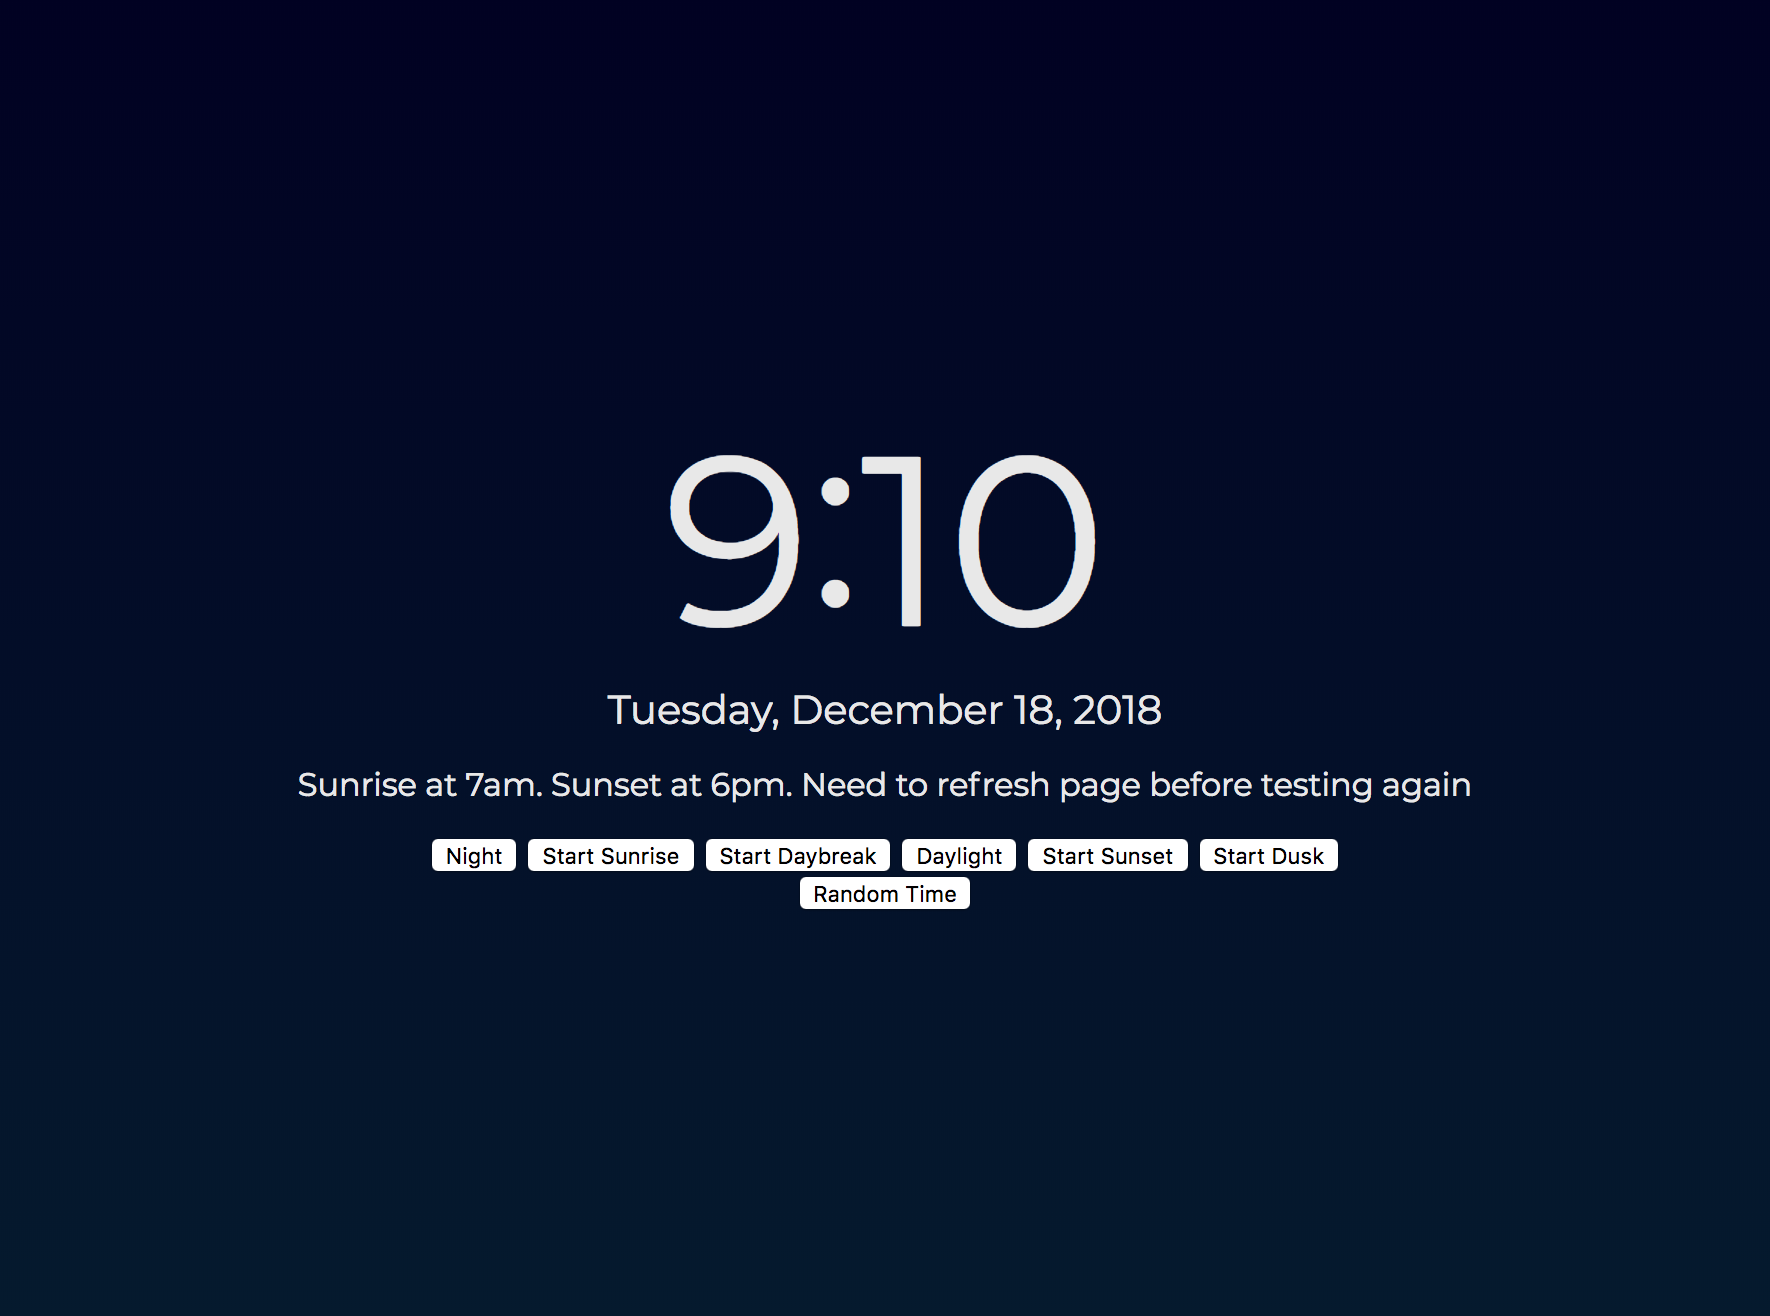
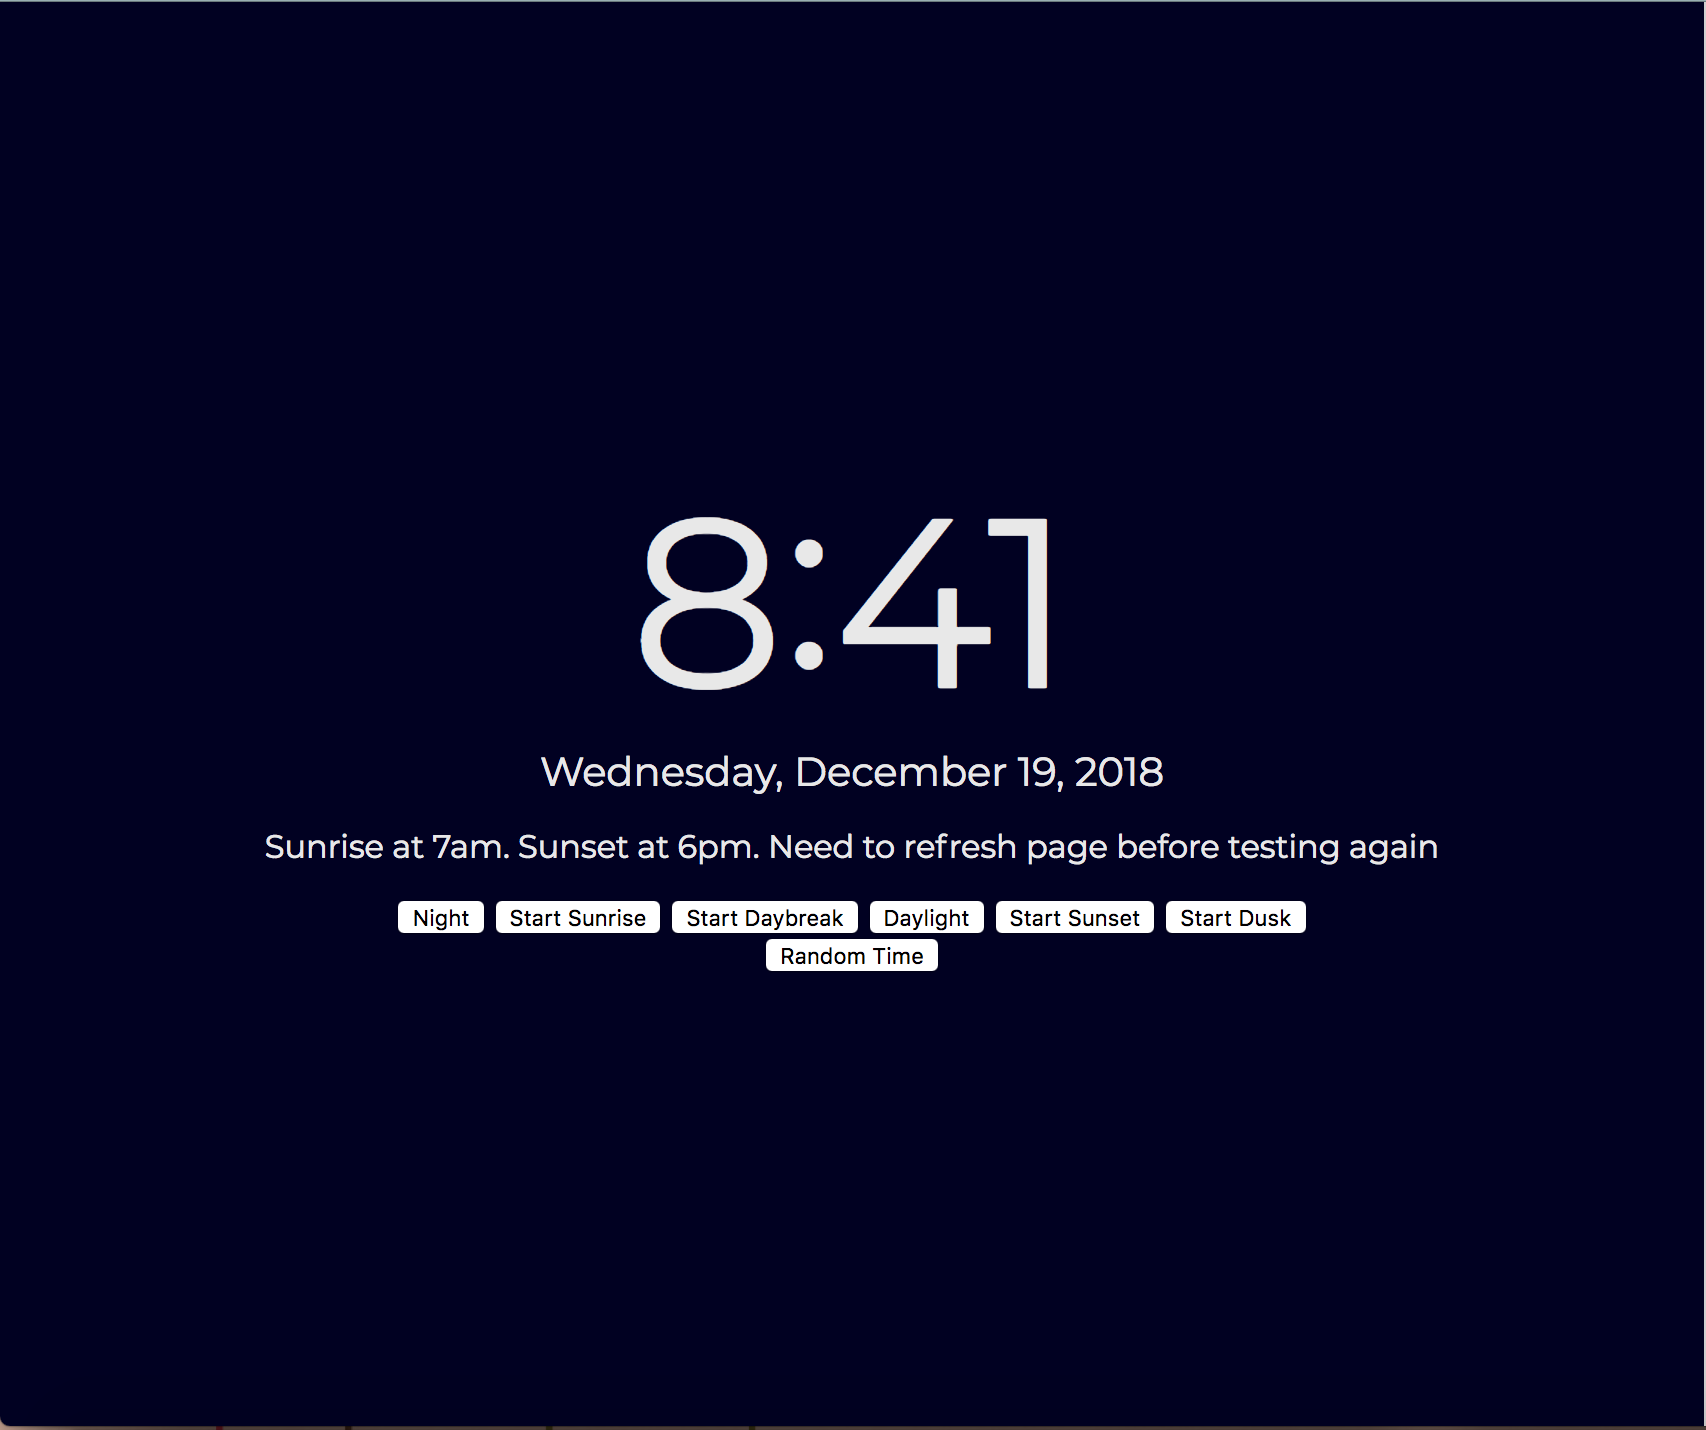
12/19/18 rnd 2
Neurotically creating gradients for the first 15 mins...

Changed region(s): [[0.0, 0.0, 1.0, 1.0], [0.1553, 0.5296, 0.8388, 0.7166], [0.3728, 0.3427, 0.6213, 0.4985]]

diff --git a/dist/js/all.js b/dist/js/all.js
@@ -2,11 +2,11 @@
 //also i SUPER don't know what I'm doing lmao
 function canvasNight() {
   const canvas = document.querySelector("canvas");
-  //will need an event listener to resize if screen resizes
+  //will need an event listener to resize if screen resizes. However, resizing will erase all items on canvas 
   canvas.setAttribute("width", window.innerWidth);
   canvas.setAttribute("height", window.innerHeight);
 
-  
+
   const ctx = canvas.getContext('2d');
   const centerX = canvas.width / 2;
   const centerY = canvas.height /2;
@@ -26,10 +26,21 @@ function getColorData() {
 		dawn: {
 			//90: beginning of dawn
 			//0: sunrise
-			90: `linear-gradient(180deg, rgba(2,0,36,1) 0%, rgba(2,0,36,1) 100%)`,
+			90: `linear-gradient(180deg, rgba(2,0,36,1) 85%, rgba(4,23,46,1) 100%)`,
+			89: `linear-gradient(180deg, rgba(2,0,36,1) 84%, rgba(5,26,50,1) 100%)`,
+			88: `linear-gradient(180deg, rgba(2,0,36,1) 83%, rgba(6,28,55,1) 100%)`,
+			87: `linear-gradient(180deg, rgba(2,0,36,1) 81%, rgba(6,30,60,1) 100%)`,
+			86: `linear-gradient(180deg, rgba(2,0,36,1) 80%, rgba(7,33,64,1) 100%)`,
+			85: `linear-gradient(180deg, rgba(2,0,36,1) 78%, rgba(8,36,69,1) 100%)`,
+			84: `linear-gradient(180deg, rgba(2,0,36,1) 77%, rgba(10,40,74,1) 100%)`,
 			83: `linear-gradient(180deg, rgba(2,0,36,1) 75%, rgba(11,44,80,1) 100%)`, 
-			82: ``,
-			80: ``,
+			82: `linear-gradient(180deg, rgba(2,0,36,1) 72%, rgba(11,44,80,1) 100%)`,
+			81: `linear-gradient(180deg, rgba(2,0,36,1) 69%, rgba(11,45,81,1) 100%)`,
+			80: `linear-gradient(180deg, rgba(2,0,36,1) 67%, rgba(11,46,82,1) 100%)`,
+			79: `linear-gradient(180deg, rgba(2,0,36,1) 64%, rgba(11,47,85,1) 100%)`,
+			78: `linear-gradient(180deg, rgba(2,0,36,1) 61%, rgba(11,48,86,1) 100%)`,
+			77: `linear-gradient(180deg, rgba(2,0,36,1) 58%, rgba(11,49,86,1) 100%)`,
+			76: `linear-gradient(180deg, rgba(2,0,36,1) 55%, rgba(11,50,87,1) 100%)`,
 			75: `linear-gradient(180deg, rgba(2,0,36,1) 50%, rgba(12,52,87,1) 100%)`,
 			70: ``,
 			68: ``,
@@ -324,7 +335,7 @@ function stopTransition(gradient) {
 }
 
 //This is a temporary function for testing - it increases the minute of the test date so each run of getBkgd is incremented
-function tempFixDate(testDate) {
+function tempFixDate(testDate, i) {
   let mins = testDate.getMinutes();
   let hours = testDate.getHours();
   if (mins >= 59) {
@@ -335,7 +346,7 @@ function tempFixDate(testDate) {
       testDate.setHours(hours + 1);
     }
   } else {
-    testDate.setMinutes(mins + 15);
+    testDate.setMinutes(mins + i);
   }
   console.log('updated time is now ' + testDate);
   return testDate;
@@ -448,7 +459,7 @@ function testApp(id) {
     newBkgd = getBkgd(testDate, sunrise, sunset, allGradients);
     console.log(newBkgd);
     root.style.setProperty('--backgroundGradient', newBkgd);
-    testDate = tempFixDate(testDate);
+    testDate = tempFixDate(testDate, 1);
   }, 2000); //starting with 2 seconds
 }
 

diff --git a/app/js/_data.js b/app/js/_data.js
@@ -6,10 +6,21 @@ function getColorData() {
 		dawn: {
 			//90: beginning of dawn
 			//0: sunrise
-			90: `linear-gradient(180deg, rgba(2,0,36,1) 0%, rgba(2,0,36,1) 100%)`,
+			90: `linear-gradient(180deg, rgba(2,0,36,1) 85%, rgba(4,23,46,1) 100%)`,
+			89: `linear-gradient(180deg, rgba(2,0,36,1) 84%, rgba(5,26,50,1) 100%)`,
+			88: `linear-gradient(180deg, rgba(2,0,36,1) 83%, rgba(6,28,55,1) 100%)`,
+			87: `linear-gradient(180deg, rgba(2,0,36,1) 81%, rgba(6,30,60,1) 100%)`,
+			86: `linear-gradient(180deg, rgba(2,0,36,1) 80%, rgba(7,33,64,1) 100%)`,
+			85: `linear-gradient(180deg, rgba(2,0,36,1) 78%, rgba(8,36,69,1) 100%)`,
+			84: `linear-gradient(180deg, rgba(2,0,36,1) 77%, rgba(10,40,74,1) 100%)`,
 			83: `linear-gradient(180deg, rgba(2,0,36,1) 75%, rgba(11,44,80,1) 100%)`, 
-			82: ``,
-			80: ``,
+			82: `linear-gradient(180deg, rgba(2,0,36,1) 72%, rgba(11,44,80,1) 100%)`,
+			81: `linear-gradient(180deg, rgba(2,0,36,1) 69%, rgba(11,45,81,1) 100%)`,
+			80: `linear-gradient(180deg, rgba(2,0,36,1) 67%, rgba(11,46,82,1) 100%)`,
+			79: `linear-gradient(180deg, rgba(2,0,36,1) 64%, rgba(11,47,85,1) 100%)`,
+			78: `linear-gradient(180deg, rgba(2,0,36,1) 61%, rgba(11,48,86,1) 100%)`,
+			77: `linear-gradient(180deg, rgba(2,0,36,1) 58%, rgba(11,49,86,1) 100%)`,
+			76: `linear-gradient(180deg, rgba(2,0,36,1) 55%, rgba(11,50,87,1) 100%)`,
 			75: `linear-gradient(180deg, rgba(2,0,36,1) 50%, rgba(12,52,87,1) 100%)`,
 			70: ``,
 			68: ``,

diff --git a/app/sass/_reference.scss b/app/sass/_reference.scss
@@ -1,7 +1,18 @@
 $night: linear-gradient(180deg, rgba(2,0,36,1) 0%, rgba(2,0,36,1) 100%);
+$dawn-90: linear-gradient(180deg, rgba(2,0,36,1) 85%, 
+	rgba(4,23,46,1) 100%);
+
+$dawn-88:linear-gradient(180deg, rgba(2,0,36,1) 83%, 
+	rgba(6,28,55,1) 100%);
+
+$dawn-86:linear-gradient(180deg, rgba(2,0,36,1) 80%, 
+	rgba(7,33,64,1) 100%);
 
 $dawn-83: linear-gradient(180deg, rgba(2,0,36,1) 75%, 
 	rgba(11,44,80,1) 100%);
+
+$dawn-79:linear-gradient(180deg, rgba(2,0,36,1) 64%, 
+	rgba(11,46,82,1) 100%);
 
 $dawn-75: linear-gradient(180deg, rgba(2,0,36,1) 50%, 
 	rgba(12,52,87,1) 100%);
@@ -24,6 +35,7 @@ $dawn-30:linear-gradient(180deg, rgba(2,0,36,1) 0%,
 	rgba(255,199,79,1) 91%, 
 	rgba(231,123,30,1) 100%);
 
+//dawn-15 might be more dawn-10...we'll see
 $dawn-15: linear-gradient(180deg, rgba(6,10,99,1) 0%, 
 	rgba(0,50,122,1) 21%, 
 	rgba(62,119,149,1) 53%, 
@@ -36,3 +48,4 @@ $daybreak-0: linear-gradient(180deg, rgba(0,32,113,1) 0%,
 	rgba(98,168,204,1) 55%, 
 	rgba(236,169,64,1) 84%, 
 	rgba(255,199,79,1) 100%);
+

diff --git a/app/js/main.js b/app/js/main.js
@@ -178,7 +178,7 @@ function stopTransition(gradient) {
 }
 
 //This is a temporary function for testing - it increases the minute of the test date so each run of getBkgd is incremented
-function tempFixDate(testDate) {
+function tempFixDate(testDate, i) {
   let mins = testDate.getMinutes();
   let hours = testDate.getHours();
   if (mins >= 59) {
@@ -189,7 +189,7 @@ function tempFixDate(testDate) {
       testDate.setHours(hours + 1);
     }
   } else {
-    testDate.setMinutes(mins + 15);
+    testDate.setMinutes(mins + i);
   }
   console.log('updated time is now ' + testDate);
   return testDate;
@@ -302,7 +302,7 @@ function testApp(id) {
     newBkgd = getBkgd(testDate, sunrise, sunset, allGradients);
     console.log(newBkgd);
     root.style.setProperty('--backgroundGradient', newBkgd);
-    testDate = tempFixDate(testDate);
+    testDate = tempFixDate(testDate, 1);
   }, 2000); //starting with 2 seconds
 }
 

diff --git a/app/sass/main.scss b/app/sass/main.scss
@@ -1,3 +1,5 @@
+@import 'reference';
+
 :root {
 	--backgroundColor: rgba(2, 0, 36, 1);
 	--backgroundGradient:linear-gradient(180deg, rgba(2,0,36,1) 0%, rgba(2,0,36,1) 100%);
